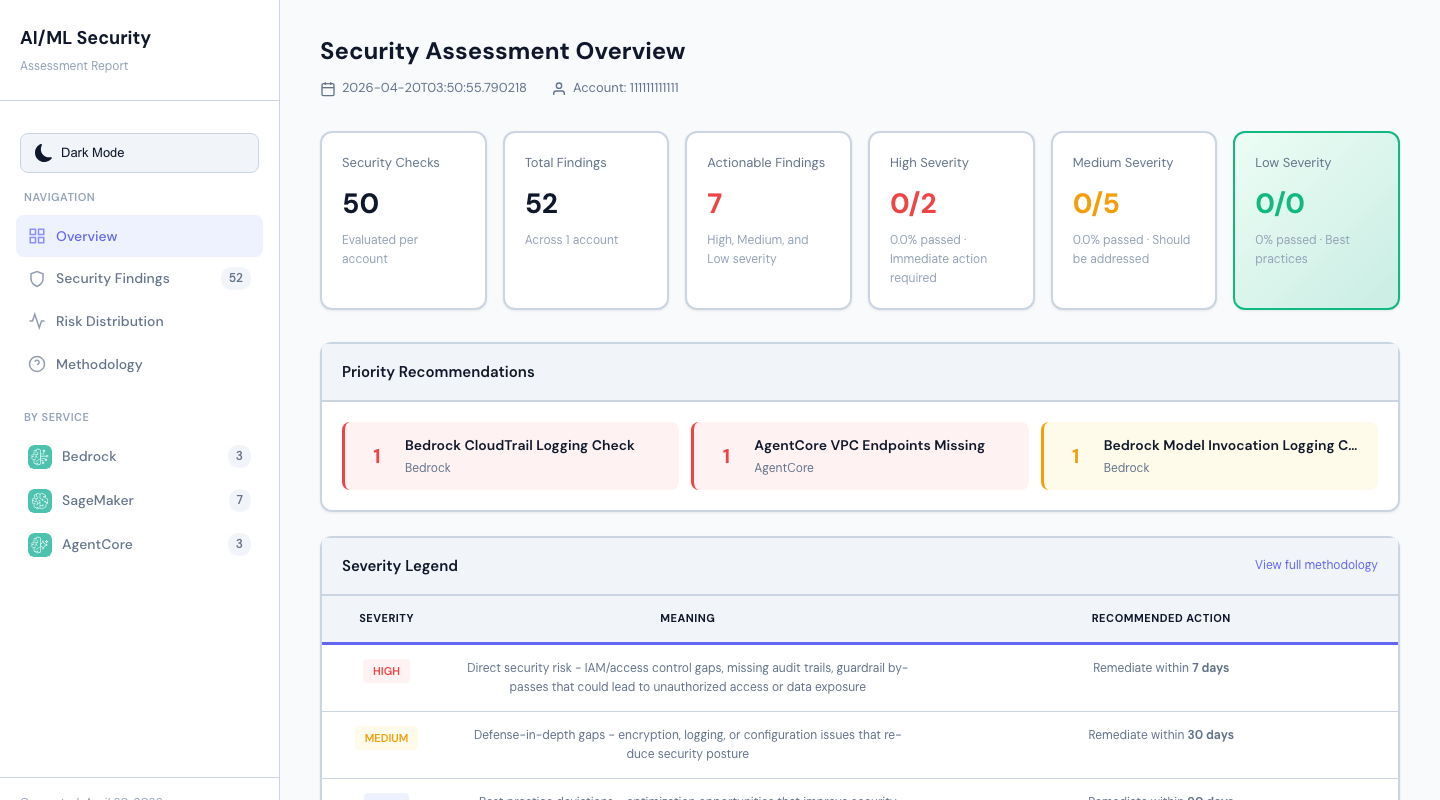
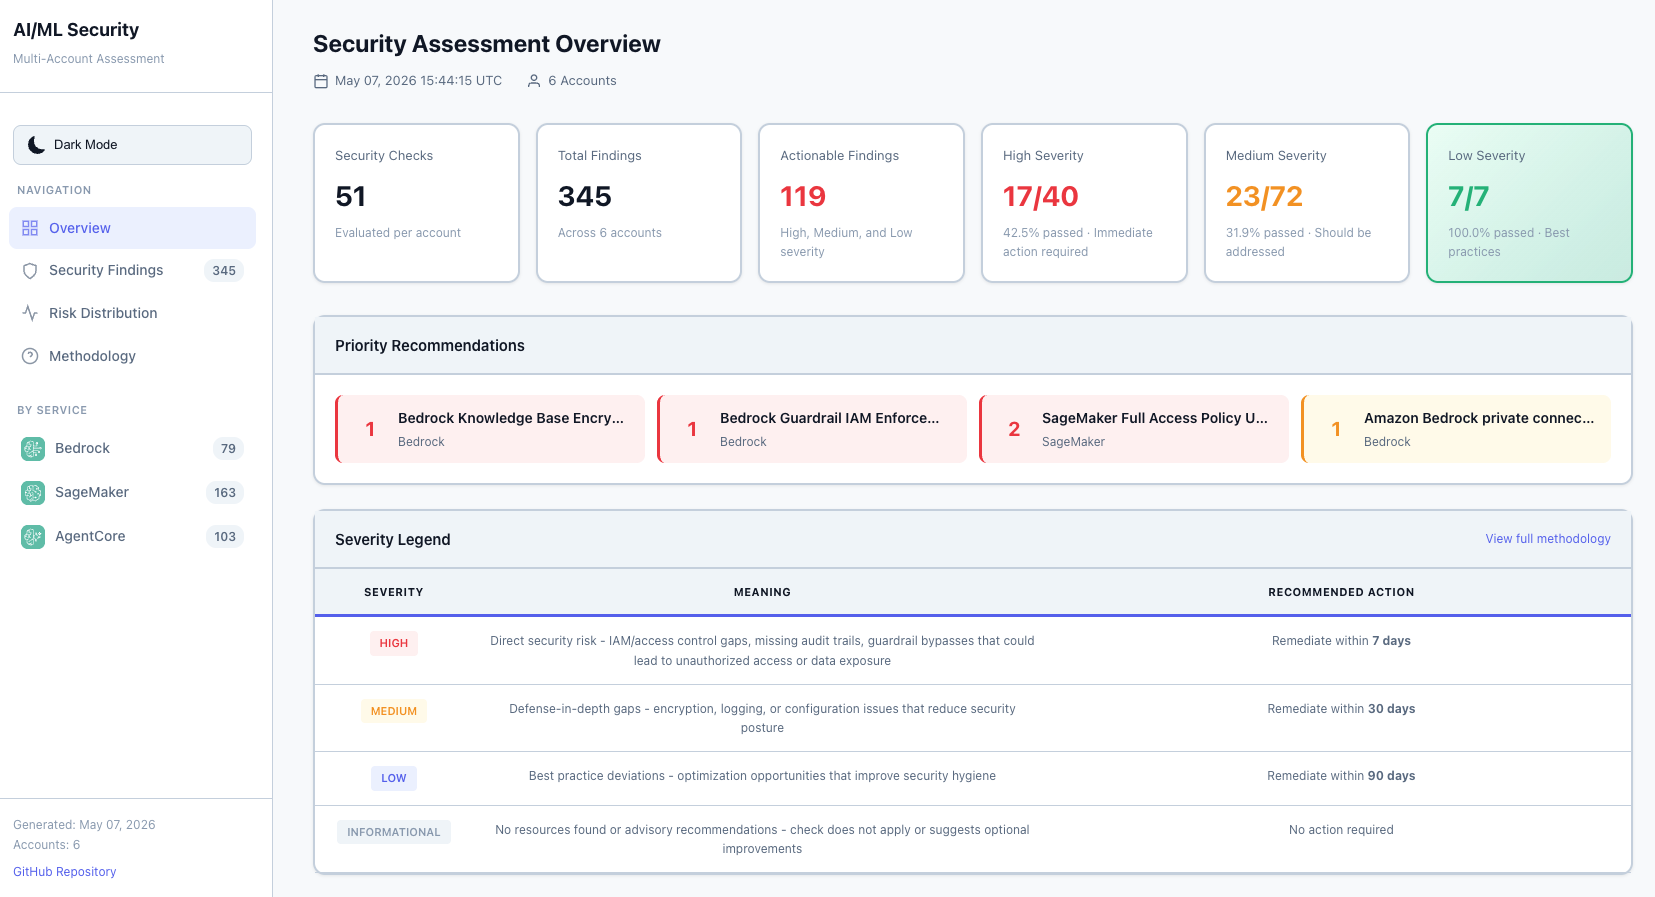
Consolidate sample reports into self-contained HTML files and update screenshots
- Inline external CSS (Google Fonts) into multi-account report HTML
- Remove broken CSS link from single-account report
- Delete security_assessment_multi_account_files/ directory
- Update dashboard screenshots
- Remove multi-account summary image from README

diff --git a/sample-reports/security_assessment_multi_account.html b/sample-reports/security_assessment_multi_account.html
@@ -4,7 +4,189 @@
     
     <meta name="viewport" content="width=device-width, initial-scale=1.0">
     <title>Multi-Account AI/ML Security Assessment Report</title>
-    <link href="./security_assessment_multi_account_files/css2" rel="stylesheet">
+    <style>
+/* Google Fonts - DM Sans & JetBrains Mono */
+/* latin-ext */
+@font-face {
+  font-family: 'DM Sans';
+  font-style: normal;
+  font-weight: 400;
+  font-display: swap;
+  src: url(https://fonts.gstatic.com/s/dmsans/v17/rP2Yp2ywxg089UriI5-g4vlH9VoD8Cmcqbu6-K6z9mXgjU0.woff2) format('woff2');
+  unicode-range: U+0100-02BA, U+02BD-02C5, U+02C7-02CC, U+02CE-02D7, U+02DD-02FF, U+0304, U+0308, U+0329, U+1D00-1DBF, U+1E00-1E9F, U+1EF2-1EFF, U+2020, U+20A0-20AB, U+20AD-20C0, U+2113, U+2C60-2C7F, U+A720-A7FF;
+}
+/* latin */
+@font-face {
+  font-family: 'DM Sans';
+  font-style: normal;
+  font-weight: 400;
+  font-display: swap;
+  src: url(https://fonts.gstatic.com/s/dmsans/v17/rP2Yp2ywxg089UriI5-g4vlH9VoD8Cmcqbu0-K6z9mXg.woff2) format('woff2');
+  unicode-range: U+0000-00FF, U+0131, U[phone redacted], U+02BB-02BC, U+02C6, U+02DA, U+02DC, U+0304, U+0308, U+0329, U+2000-206F, U+20AC, U+2122, U+2191, U+2193, U+2212, U+2215, U+FEFF, U+FFFD;
+}
+/* latin-ext */
+@font-face {
+  font-family: 'DM Sans';
+  font-style: normal;
+  font-weight: 500;
+  font-display: swap;
+  src: url(https://fonts.gstatic.com/s/dmsans/v17/rP2Yp2ywxg089UriI5-g4vlH9VoD8Cmcqbu6-K6z9mXgjU0.woff2) format('woff2');
+  unicode-range: U+0100-02BA, U+02BD-02C5, U+02C7-02CC, U+02CE-02D7, U+02DD-02FF, U+0304, U+0308, U+0329, U+1D00-1DBF, U+1E00-1E9F, U+1EF2-1EFF, U+2020, U+20A0-20AB, U+20AD-20C0, U+2113, U+2C60-2C7F, U+A720-A7FF;
+}
+/* latin */
+@font-face {
+  font-family: 'DM Sans';
+  font-style: normal;
+  font-weight: 500;
+  font-display: swap;
+  src: url(https://fonts.gstatic.com/s/dmsans/v17/rP2Yp2ywxg089UriI5-g4vlH9VoD8Cmcqbu0-K6z9mXg.woff2) format('woff2');
+  unicode-range: U+0000-00FF, U+0131, U[phone redacted], U+02BB-02BC, U+02C6, U+02DA, U+02DC, U+0304, U+0308, U+0329, U+2000-206F, U+20AC, U+2122, U+2191, U+2193, U+2212, U+2215, U+FEFF, U+FFFD;
+}
+/* latin-ext */
+@font-face {
+  font-family: 'DM Sans';
+  font-style: normal;
+  font-weight: 600;
+  font-display: swap;
+  src: url(https://fonts.gstatic.com/s/dmsans/v17/rP2Yp2ywxg089UriI5-g4vlH9VoD8Cmcqbu6-K6z9mXgjU0.woff2) format('woff2');
+  unicode-range: U+0100-02BA, U+02BD-02C5, U+02C7-02CC, U+02CE-02D7, U+02DD-02FF, U+0304, U+0308, U+0329, U+1D00-1DBF, U+1E00-1E9F, U+1EF2-1EFF, U+2020, U+20A0-20AB, U+20AD-20C0, U+2113, U+2C60-2C7F, U+A720-A7FF;
+}
+/* latin */
+@font-face {
+  font-family: 'DM Sans';
+  font-style: normal;
+  font-weight: 600;
+  font-display: swap;
+  src: url(https://fonts.gstatic.com/s/dmsans/v17/rP2Yp2ywxg089UriI5-g4vlH9VoD8Cmcqbu0-K6z9mXg.woff2) format('woff2');
+  unicode-range: U+0000-00FF, U+0131, U[phone redacted], U+02BB-02BC, U+02C6, U+02DA, U+02DC, U+0304, U+0308, U+0329, U+2000-206F, U+20AC, U+2122, U+2191, U+2193, U+2212, U+2215, U+FEFF, U+FFFD;
+}
+/* latin-ext */
+@font-face {
+  font-family: 'DM Sans';
+  font-style: normal;
+  font-weight: 700;
+  font-display: swap;
+  src: url(https://fonts.gstatic.com/s/dmsans/v17/rP2Yp2ywxg089UriI5-g4vlH9VoD8Cmcqbu6-K6z9mXgjU0.woff2) format('woff2');
+  unicode-range: U+0100-02BA, U+02BD-02C5, U+02C7-02CC, U+02CE-02D7, U+02DD-02FF, U+0304, U+0308, U+0329, U+1D00-1DBF, U+1E00-1E9F, U+1EF2-1EFF, U+2020, U+20A0-20AB, U+20AD-20C0, U+2113, U+2C60-2C7F, U+A720-A7FF;
+}
+/* latin */
+@font-face {
+  font-family: 'DM Sans';
+  font-style: normal;
+  font-weight: 700;
+  font-display: swap;
+  src: url(https://fonts.gstatic.com/s/dmsans/v17/rP2Yp2ywxg089UriI5-g4vlH9VoD8Cmcqbu0-K6z9mXg.woff2) format('woff2');
+  unicode-range: U+0000-00FF, U+0131, U[phone redacted], U+02BB-02BC, U+02C6, U+02DA, U+02DC, U+0304, U+0308, U+0329, U+2000-206F, U+20AC, U+2122, U+2191, U+2193, U+2212, U+2215, U+FEFF, U+FFFD;
+}
+/* cyrillic-ext */
+@font-face {
+  font-family: 'JetBrains Mono';
+  font-style: normal;
+  font-weight: 400;
+  font-display: swap;
+  src: url(https://fonts.gstatic.com/s/jetbrainsmono/v24/tDbv2o-flEEny0FZhsfKu5WU4zr3E_BX0PnT8RD8yKwBNntkaToggR7BYRbKPx3cwgknk-6nFg.woff2) format('woff2');
+  unicode-range: U+0460-052F, U+1C80-1C8A, U+20B4, U+2DE0-2DFF, U+A640-A69F, U+FE2E-FE2F;
+}
+/* cyrillic */
+@font-face {
+  font-family: 'JetBrains Mono';
+  font-style: normal;
+  font-weight: 400;
+  font-display: swap;
+  src: url(https://fonts.gstatic.com/s/jetbrainsmono/v24/tDbv2o-flEEny0FZhsfKu5WU4zr3E_BX0PnT8RD8yKwBNntkaToggR7BYRbKPxTcwgknk-6nFg.woff2) format('woff2');
+  unicode-range: U+0301, U+0400-045F, U[phone redacted], U+04B0-04B1, U+2116;
+}
+/* greek */
+@font-face {
+  font-family: 'JetBrains Mono';
+  font-style: normal;
+  font-weight: 400;
+  font-display: swap;
+  src: url(https://fonts.gstatic.com/s/jetbrainsmono/v24/tDbv2o-flEEny0FZhsfKu5WU4zr3E_BX0PnT8RD8yKwBNntkaToggR7BYRbKPxPcwgknk-6nFg.woff2) format('woff2');
+  unicode-range: U[phone redacted], U+037A-037F, U+0384-038A, U+038C, U+038E-03A1, U+03A3-03FF;
+}
+/* vietnamese */
+@font-face {
+  font-family: 'JetBrains Mono';
+  font-style: normal;
+  font-weight: 400;
+  font-display: swap;
+  src: url(https://fonts.gstatic.com/s/jetbrainsmono/v24/tDbv2o-flEEny0FZhsfKu5WU4zr3E_BX0PnT8RD8yKwBNntkaToggR7BYRbKPx_cwgknk-6nFg.woff2) format('woff2');
+  unicode-range: U[phone redacted], U[phone redacted], U[phone redacted], U[phone redacted], U+01A0-01A1, U+01AF-01B0, U[phone redacted], U[phone redacted], U[phone redacted], U+0323, U+0329, U+1EA0-1EF9, U+20AB;
+}
+/* latin-ext */
+@font-face {
+  font-family: 'JetBrains Mono';
+  font-style: normal;
+  font-weight: 400;
+  font-display: swap;
+  src: url(https://fonts.gstatic.com/s/jetbrainsmono/v24/tDbv2o-flEEny0FZhsfKu5WU4zr3E_BX0PnT8RD8yKwBNntkaToggR7BYRbKPx7cwgknk-6nFg.woff2) format('woff2');
+  unicode-range: U+0100-02BA, U+02BD-02C5, U+02C7-02CC, U+02CE-02D7, U+02DD-02FF, U+0304, U+0308, U+0329, U+1D00-1DBF, U+1E00-1E9F, U+1EF2-1EFF, U+2020, U+20A0-20AB, U+20AD-20C0, U+2113, U+2C60-2C7F, U+A720-A7FF;
+}
+/* latin */
+@font-face {
+  font-family: 'JetBrains Mono';
+  font-style: normal;
+  font-weight: 400;
+  font-display: swap;
+  src: url(https://fonts.gstatic.com/s/jetbrainsmono/v24/tDbv2o-flEEny0FZhsfKu5WU4zr3E_BX0PnT8RD8yKwBNntkaToggR7BYRbKPxDcwgknk-4.woff2) format('woff2');
+  unicode-range: U+0000-00FF, U+0131, U[phone redacted], U+02BB-02BC, U+02C6, U+02DA, U+02DC, U+0304, U+0308, U+0329, U+2000-206F, U+20AC, U+2122, U+2191, U+2193, U+2212, U+2215, U+FEFF, U+FFFD;
+}
+/* cyrillic-ext */
+@font-face {
+  font-family: 'JetBrains Mono';
+  font-style: normal;
+  font-weight: 500;
+  font-display: swap;
+  src: url(https://fonts.gstatic.com/s/jetbrainsmono/v24/tDbv2o-flEEny0FZhsfKu5WU4zr3E_BX0PnT8RD8yKwBNntkaToggR7BYRbKPx3cwgknk-6nFg.woff2) format('woff2');
+  unicode-range: U+0460-052F, U+1C80-1C8A, U+20B4, U+2DE0-2DFF, U+A640-A69F, U+FE2E-FE2F;
+}
+/* cyrillic */
+@font-face {
+  font-family: 'JetBrains Mono';
+  font-style: normal;
+  font-weight: 500;
+  font-display: swap;
+  src: url(https://fonts.gstatic.com/s/jetbrainsmono/v24/tDbv2o-flEEny0FZhsfKu5WU4zr3E_BX0PnT8RD8yKwBNntkaToggR7BYRbKPxTcwgknk-6nFg.woff2) format('woff2');
+  unicode-range: U+0301, U+0400-045F, U[phone redacted], U+04B0-04B1, U+2116;
+}
+/* greek */
+@font-face {
+  font-family: 'JetBrains Mono';
+  font-style: normal;
+  font-weight: 500;
+  font-display: swap;
+  src: url(https://fonts.gstatic.com/s/jetbrainsmono/v24/tDbv2o-flEEny0FZhsfKu5WU4zr3E_BX0PnT8RD8yKwBNntkaToggR7BYRbKPxPcwgknk-6nFg.woff2) format('woff2');
+  unicode-range: U[phone redacted], U+037A-037F, U+0384-038A, U+038C, U+038E-03A1, U+03A3-03FF;
+}
+/* vietnamese */
+@font-face {
+  font-family: 'JetBrains Mono';
+  font-style: normal;
+  font-weight: 500;
+  font-display: swap;
+  src: url(https://fonts.gstatic.com/s/jetbrainsmono/v24/tDbv2o-flEEny0FZhsfKu5WU4zr3E_BX0PnT8RD8yKwBNntkaToggR7BYRbKPx_cwgknk-6nFg.woff2) format('woff2');
+  unicode-range: U[phone redacted], U[phone redacted], U[phone redacted], U[phone redacted], U+01A0-01A1, U+01AF-01B0, U[phone redacted], U[phone redacted], U[phone redacted], U+0323, U+0329, U+1EA0-1EF9, U+20AB;
+}
+/* latin-ext */
+@font-face {
+  font-family: 'JetBrains Mono';
+  font-style: normal;
+  font-weight: 500;
+  font-display: swap;
+  src: url(https://fonts.gstatic.com/s/jetbrainsmono/v24/tDbv2o-flEEny0FZhsfKu5WU4zr3E_BX0PnT8RD8yKwBNntkaToggR7BYRbKPx7cwgknk-6nFg.woff2) format('woff2');
+  unicode-range: U+0100-02BA, U+02BD-02C5, U+02C7-02CC, U+02CE-02D7, U+02DD-02FF, U+0304, U+0308, U+0329, U+1D00-1DBF, U+1E00-1E9F, U+1EF2-1EFF, U+2020, U+20A0-20AB, U+20AD-20C0, U+2113, U+2C60-2C7F, U+A720-A7FF;
+}
+/* latin */
+@font-face {
+  font-family: 'JetBrains Mono';
+  font-style: normal;
+  font-weight: 500;
+  font-display: swap;
+  src: url(https://fonts.gstatic.com/s/jetbrainsmono/v24/tDbv2o-flEEny0FZhsfKu5WU4zr3E_BX0PnT8RD8yKwBNntkaToggR7BYRbKPxDcwgknk-4.woff2) format('woff2');
+  unicode-range: U+0000-00FF, U+0131, U[phone redacted], U+02BB-02BC, U+02C6, U+02DA, U+02DC, U+0304, U+0308, U+0329, U+2000-206F, U+20AC, U+2122, U+2191, U+2193, U+2212, U+2215, U+FEFF, U+FFFD;
+}
+    </style>
     <style>
         :root {
             --bg: #f8fafc;

diff --git a/sample-reports/security_assessment_single_account.html b/sample-reports/security_assessment_single_account.html
@@ -4,7 +4,6 @@
     
     <meta name="viewport" content="width=device-width, initial-scale=1.0">
     <title>AI/ML Security Assessment Report</title>
-    <link href="./security_assessment_single_account_files/css2" rel="stylesheet">
     <style>
         :root {
             --bg: #f8fafc;

diff --git a/README.md b/README.md
@@ -31,12 +31,6 @@ The framework generates professional, interactive security assessment reports wi
       <p align="center"><em>Interactive Findings Table with Filtering</em></p>
     </td>
   </tr>
-  <tr>
-    <td colspan="2">
-      <img src="sample-reports/multi-account-summary.png" alt="Multi-Account Summary"/>
-      <p align="center"><em>Multi-Account Consolidated View</em></p>
-    </td>
-  </tr>
 </table>
 
 ### Key Features